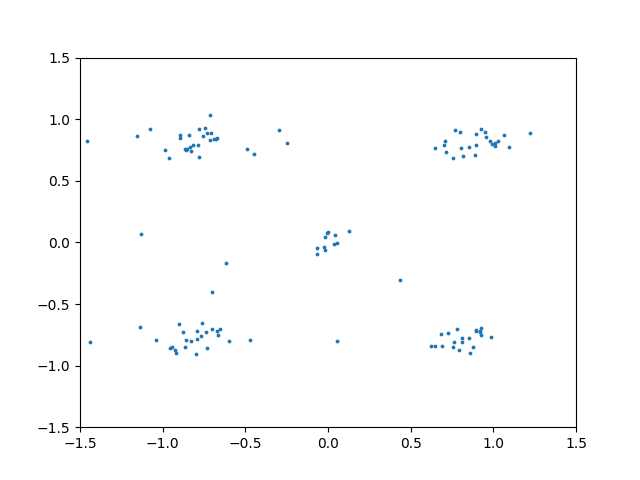
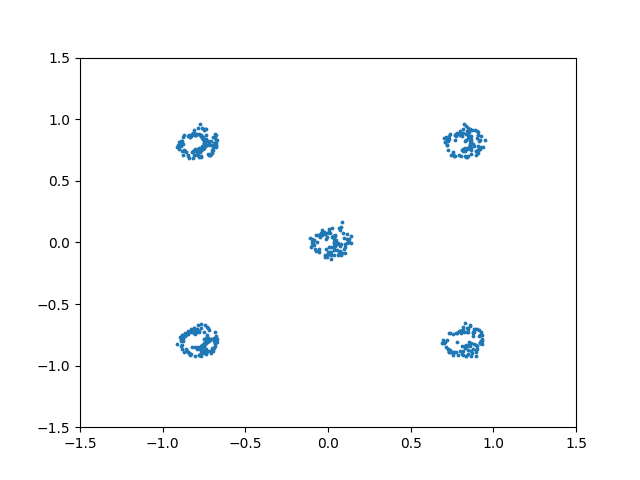
nothing

diff --git a/sampling.py b/sampling.py
@@ -99,7 +99,7 @@ def get_corrector_sampler(config, sde, sampling_shape, eps):
     m_inv = sde.m_inv
 
     n_lang_iters = config.n_lang_iters
-    h_lang = .1
+    h_lang = .15
     counter = 0
 
     def make_image(u, color='blue'):
@@ -109,8 +109,8 @@ def get_corrector_sampler(config, sde, sampling_shape, eps):
         file_name= f"{counter}.png"
         counter+=1
         l = 1.5
-        plt.xlim(-l,l)
-        plt.ylim(-l,l)
+        # plt.xlim(-l,l)
+        # plt.ylim(-l,l)
         x, _ = torch.chunk( u , 2, dim = 1)
         plt.scatter(x.cpu().numpy()[:, 0], x.cpu().numpy()[:, 1], color=color, s=3)
         plt.savefig(os.path.join("./root/trajectory/", file_name))
@@ -143,7 +143,7 @@ def get_corrector_sampler(config, sde, sampling_shape, eps):
         eta = 4 * gamma * beta / c_hat**2 
         # eta = 0.001683
         n_discrete_steps = (int) (dt/eta)
-        # print(eta,dt)
+        print(eta,dt)
         t = torch.linspace(t + dt, t, n_discrete_steps + 1, dtype=torch.float64)
         for i in range(n_discrete_steps):
             dt = torch.abs(t[i+1]- t[i])
@@ -171,7 +171,7 @@ def get_corrector_sampler(config, sde, sampling_shape, eps):
                 x = overdamped_langevin_iter(x,h_lang,sx)
             u = torch.cat((x,v), dim=1)
 
-            make_image(u,color='red')
+            # make_image(u,color='red')
         return u
 
     def underdamped_langevin_corrector(model, uu, t):
@@ -206,7 +206,7 @@ def get_corrector_sampler(config, sde, sampling_shape, eps):
             n_discrete_steps = config.n_discrete_steps if not config.denoising else config.n_discrete_steps - 1
             t_final = 1. - eps
             t = torch.linspace(
-                0., t_final, n_discrete_steps + 1, dtype=torch.float64)
+                t_final, 0.,  n_discrete_steps + 1, dtype=torch.float64)
             if config.striding == 'linear':
                 pass
             elif config.striding == 'quadratic':
@@ -214,14 +214,15 @@ def get_corrector_sampler(config, sde, sampling_shape, eps):
 
             for i in range(n_discrete_steps):
                 dt = torch.abs(t[i + 1] - t[i])
-                # u = discrete_steps(u, t[i], dt)
-                u, _ = step_fn(model, u, t[i], dt)
-                # if config.overdamped_lang:
-                #     u = overdamped_langevin_corrector(model, u, t[i+1])
-                # else:
-                #     u = underdamped_langevin_corrector(model, u, t[i+1])
-
+                u = discrete_steps(u, t[i], dt)
+                # u, _ = step_fn(model, u, t_final - t[i], dt)
                 make_image(u,color='blue')
+
+                if config.overdamped_lang:
+                    u = overdamped_langevin_corrector(model, u, t[i+1])
+                else:
+                    u = underdamped_langevin_corrector(model, u, t[i+1])
+
 
             if config.denoising:
                 _, u = step_fn(model, u, 1. - eps, eps)

diff --git a/models/utils.py b/models/utils.py
@@ -59,9 +59,7 @@ def get_score_fn(config, sde, model, train=False):
         score = model_fn(u.type(torch.float32), t.type(torch.float32))
         noise_multiplier = sde.noise_multiplier(t).type(torch.float32)
 
-
         if config.cld_objective == 'realdsm':
-            print("NOT HERE")
             noise_multiplier = sde.matrix_noise_multiplier(t)
             noise_x, noise_y = torch.chunk(score, 2, dim = 1)
             score_x = noise_multiplier[0] * noise_x + noise_multiplier[1] * noise_y
